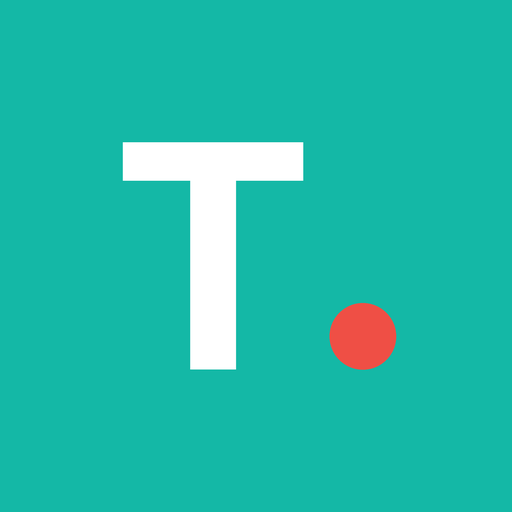
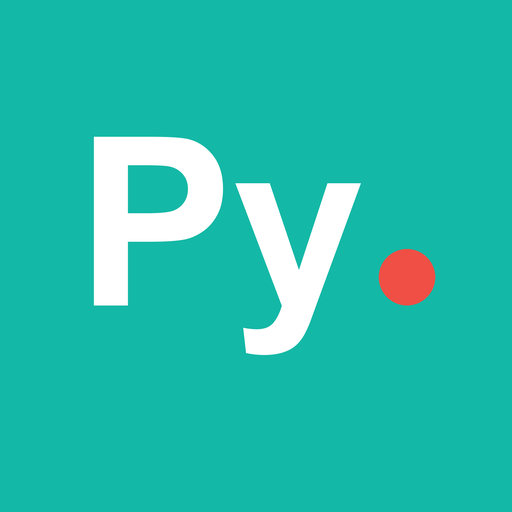
Rename app to РуЛинго (rulingo)

Changed region(s): [[0.1562, 0.25, 0.875, 0.75]]

diff --git a/src/state/backup.ts b/src/state/backup.ts
@@ -1,7 +1,7 @@
 import { dayKey } from '../lib/date'
 import { snapshot, useStore, type PersistedState } from './store'
 
-const APP = 'tochka-ru'
+const APP = 'rulingo'
 
 /**
  * Export progress as a JSON file. On phones the share sheet lets the user drop it straight into
@@ -9,12 +9,12 @@ const APP = 'tochka-ru'
  */
 export async function exportProgress(): Promise<'shared' | 'downloaded' | 'cancelled'> {
   const data = JSON.stringify({ app: APP, version: 1, exportedAt: new Date().toISOString(), state: snapshot() })
-  const name = `tochka-ru-progreso-${dayKey()}.json`
+  const name = `rulingo-progreso-${dayKey()}.json`
   const file = new File([data], name, { type: 'application/json' })
 
   if (navigator.canShare?.({ files: [file] })) {
     try {
-      await navigator.share({ files: [file], title: 'Progreso Точка Ру' })
+      await navigator.share({ files: [file], title: 'Progreso РуЛинго' })
       useStore.getState().markBackup()
       return 'shared'
     } catch (e) {
@@ -35,7 +35,7 @@ export async function exportProgress(): Promise<'shared' | 'downloaded' | 'cance
 export async function readBackup(file: File): Promise<PersistedState> {
   const parsed = JSON.parse(await file.text())
   if (parsed?.app !== APP || !parsed.state?.settings || !parsed.state?.progress) {
-    throw new Error('Este archivo no es un respaldo de Точка Ру.')
+    throw new Error('Este archivo no es un respaldo de РуЛинго.')
   }
   return parsed.state as PersistedState
 }

diff --git a/vite.config.ts b/vite.config.ts
@@ -4,7 +4,7 @@ import tailwindcss from '@tailwindcss/vite'
 import { VitePWA } from 'vite-plugin-pwa'
 
 // GitHub Pages serves the site from /<repo>/; override with BASE_PATH if the repo name changes.
-const base = process.env.BASE_PATH ?? (process.env.NODE_ENV === 'production' ? '/tochka-ru/' : '/')
+const base = process.env.BASE_PATH ?? (process.env.NODE_ENV === 'production' ? '/rulingo/' : '/')
 
 export default defineConfig({
   base,
@@ -17,8 +17,8 @@ export default defineConfig({
       registerType: 'autoUpdate',
       includeAssets: ['icon.svg', 'apple-touch-icon.png'],
       manifest: {
-        name: 'Точка Ру — Práctica',
-        short_name: 'Точка Ру',
+        name: 'РуЛинго',
+        short_name: 'РуЛинго',
         description: 'Practica ruso con el contenido de Точка Ру A1',
         lang: 'es',
         theme_color: '#14b8a6',

diff --git a/index.html b/index.html
@@ -6,12 +6,12 @@
     <meta name="theme-color" content="#14b8a6" />
     <meta name="description" content="Practica ruso con el contenido de Точка Ру A1" />
     <meta name="apple-mobile-web-app-capable" content="yes" />
-    <meta name="apple-mobile-web-app-title" content="Точка Ру" />
+    <meta name="apple-mobile-web-app-title" content="РуЛинго" />
     <meta name="apple-mobile-web-app-status-bar-style" content="default" />
     <link rel="icon" type="image/svg+xml" href="/icon.svg" />
     <link rel="icon" type="image/png" sizes="64x64" href="/favicon-64.png" />
     <link rel="apple-touch-icon" href="/apple-touch-icon.png" />
-    <title>Точка Ру — Práctica</title>
+    <title>РуЛинго</title>
   </head>
   <body>
     <div id="root"></div>

diff --git a/src/screens/Onboarding.tsx b/src/screens/Onboarding.tsx
@@ -21,7 +21,7 @@ export function Onboarding() {
       {step === 0 && (
         <div className="flex flex-1 flex-col">
           <div className="animate-pop text-center text-7xl">🪆</div>
-          <h1 className="ru mt-4 text-center text-4xl font-extrabold">Точка Ру</h1>
+          <h1 className="ru mt-4 text-center text-4xl font-extrabold"><span className="text-brand">Ру</span>Линго</h1>
           <p className="mt-2 text-center font-semibold text-muted">Practica ruso con lo que estás viendo en clase: vocabulario, gramática y las historias del libro.</p>
           <label className="mt-8 block">
             <span className="mb-1 block font-bold">¿Cómo te llamas?</span>

diff --git a/src/state/store.ts b/src/state/store.ts
@@ -189,7 +189,7 @@ export const useStore = create<PersistedState & Actions>()(
       resetAll: () => set(initial()),
     }),
     {
-      name: 'tochka-ru',
+      name: 'rulingo',
       version: 1,
       partialize: ({ settings, progress, stats, streak, badges, lastBackup }) => ({ settings, progress, stats, streak, badges, lastBackup }),
       merge: (persisted, current) => {

diff --git a/README.md b/README.md
@@ -1,4 +1,4 @@
-# Точка Ру — Práctica
+# РуЛинго (RuLingo)
 
 A Duolingo-style practice app for the Russian A1 textbook **Точка Ру** (Dolmatova & Novacac), with the interface in Spanish. It's an installable web app (PWA) that runs entirely in the browser, so it can be hosted on GitHub Pages.
 
